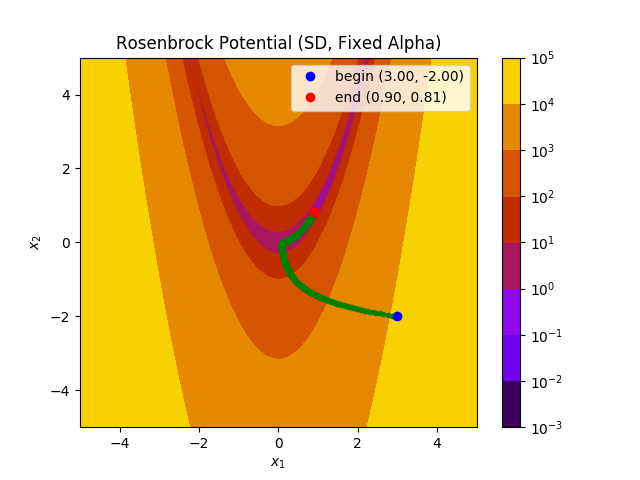
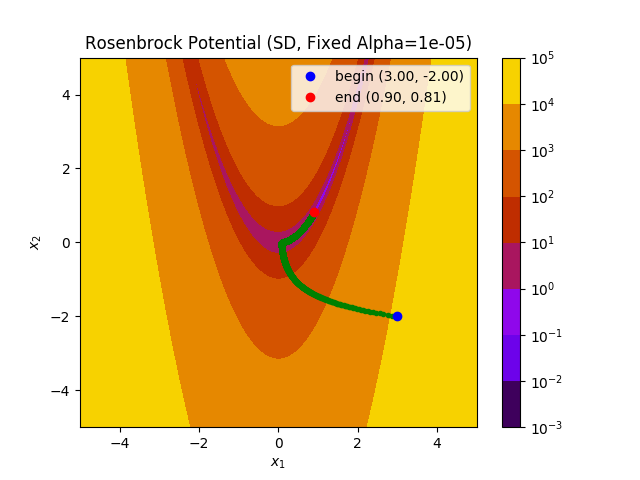
backup hw3 (not done yet)

Changed region(s): [[0.125, 0.0625, 0.75, 0.125]]

diff --git a/HW03/pb2/3_quad/sd.py b/HW03/pb2/3_quad/sd.py
@@ -5,8 +5,9 @@ matplotlib.use('TkAgg')
 import matplotlib.pyplot as plt
 
 A, B = 1, 100
-EPSILON = 1e-0
-ALPHA = 1e-5
+C = 0.1
+EPSILON = 1e-2
+ALPHA0 = 1.0
 
 def func(x1, x2, a=A, b=B):
     return (a-x1)**2 + b*(x2-x1**2)**2
@@ -21,6 +22,22 @@ def hess_func(x1, x2, a=A, b=B):
         [-4*b*x1, 2*b],
     ])
 
+def get_proper_alpha(x1k, x2k, pk):
+    alphak = ALPHA0
+    while True:
+        x1k1 = x1k + alphak * pk[0]
+        x2k1 = x2k + alphak * pk[1]
+        grad0 = grad_func(x1k, x2k)
+        phi0 = func(x1k, x2k)
+        phi1 = func(x1k1, x1k1)
+        phi_d0 = np.matmul(grad0.T, pk)
+        if phi1 <= phi0 + C * alphak * phi_d0:
+            break
+        numerator = -np.multiply(phi_d0, alphak**2)
+        denominator = 2.0*(phi1 - phi0 - alphak*phi_d0)
+        alphak = numerator/denominator
+    return alphak
+
 if __name__ == '__main__':
     x1, x2 = 3.0, -2.0
     r = func(x1, x2)
@@ -32,21 +49,16 @@ if __name__ == '__main__':
     rs = []
     x1s.append(x1)
     x2s.append(x2)
-
-    pk = -1.0*grad_func(x1,x2)
     while r > EPSILON:
-        x1k1 = x1s[k] + ALPHA * pk[0]
-        x2k1 = x2s[k] + ALPHA * pk[1]
-        
-        gradk = grad_func(x1s[k],x2s[k])
-        gradk1 = grad_func(x1k1,x2k1)
-        betak1 = np.matmul(gradk1.T, gradk1)/np.matmul(gradk.T, gradk)
-        pk = np.add(-1.0*gradk1, np.multiply(pk, betak1))
+        pk = -1.0*grad_func(x1s[k],x2s[k])
+        alphak = get_proper_alpha(x1s[k], x2s[k], pk)
+        x1k1 = x1s[k] + alphak * pk[0]
+        x2k1 = x2s[k] + alphak * pk[1]
 
         ps.append(pk)
         x1s.append(x1k1)
         x2s.append(x2k1)
-        k += 1
+        k +=1
         r = func(x1k1, x2k1)
         rs.append(r)
         # print(r)
@@ -63,11 +75,12 @@ if __name__ == '__main__':
     plt.legend()
     plt.xlabel('$x_1$')
     plt.ylabel('$x_2$')
-    plt.title("Rosenbrock Potential (CG, Fixed Alpha={})".format(ALPHA))
-    plt.savefig("cg.png")
+    plt.title("Rosenbrock Potential")
+    # plt.show()
+    plt.savefig("sd.png")
     # decay
     plt.clf()
     plt.plot(rs)
     plt.yscale("log")
     plt.title("Decay of objective function")
-    plt.savefig("cg_r.png")
+    plt.savefig("sd_r.png")

diff --git a/HW03/pb2/3_quad/cg.py b/HW03/pb2/3_quad/cg.py
@@ -5,8 +5,9 @@ matplotlib.use('TkAgg')
 import matplotlib.pyplot as plt
 
 A, B = 1, 100
-EPSILON = 1e-0
-ALPHA = 1e-5
+C = 0.1
+EPSILON = 1e-2
+ALPHA0 = 1.0
 
 def func(x1, x2, a=A, b=B):
     return (a-x1)**2 + b*(x2-x1**2)**2
@@ -20,6 +21,22 @@ def hess_func(x1, x2, a=A, b=B):
         [2+4*b*(3*x1**2-x2), -4*b*x1],
         [-4*b*x1, 2*b],
     ])
+
+def get_proper_alpha(x1k, x2k, pk):
+    alphak = ALPHA0
+    while True:
+        x1k1 = x1k + alphak * pk[0]
+        x2k1 = x2k + alphak * pk[1]
+        grad0 = grad_func(x1k, x2k)
+        phi0 = func(x1k, x2k)
+        phi1 = func(x1k1, x1k1)
+        phi_d0 = np.matmul(grad0.T, pk)
+        if phi1 <= phi0 + C * alphak * phi_d0:
+            break
+        numerator = -np.multiply(phi_d0, alphak**2)
+        denominator = 2.0*(phi1 - phi0 - alphak*phi_d0)
+        alphak = numerator/denominator
+    return alphak
 
 if __name__ == '__main__':
     x1, x2 = 3.0, -2.0
@@ -35,8 +52,9 @@ if __name__ == '__main__':
 
     pk = -1.0*grad_func(x1,x2)
     while r > EPSILON:
-        x1k1 = x1s[k] + ALPHA * pk[0]
-        x2k1 = x2s[k] + ALPHA * pk[1]
+        alphak = get_proper_alpha(x1s[k], x2s[k], pk)
+        x1k1 = x1s[k] + alphak * pk[0]
+        x2k1 = x2s[k] + alphak * pk[1]
         
         gradk = grad_func(x1s[k],x2s[k])
         gradk1 = grad_func(x1k1,x2k1)
@@ -49,7 +67,7 @@ if __name__ == '__main__':
         k += 1
         r = func(x1k1, x2k1)
         rs.append(r)
-        # print(r)
+        print(r)
     ## Visualize
     # contour
     x, y = np.meshgrid(np.linspace(-5, 5, 1000),
@@ -63,7 +81,8 @@ if __name__ == '__main__':
     plt.legend()
     plt.xlabel('$x_1$')
     plt.ylabel('$x_2$')
-    plt.title("Rosenbrock Potential (CG, Fixed Alpha={})".format(ALPHA))
+    plt.title("Rosenbrock Potential (Fixed Alpha)")
+    # plt.show()
     plt.savefig("cg.png")
     # decay
     plt.clf()

diff --git a/HW03/pb2/1_fixalpha/sd.py b/HW03/pb2/1_fixalpha/sd.py
@@ -29,6 +29,7 @@ if __name__ == '__main__':
     ps = []
     x1s = []
     x2s = []
+    rs = []
     x1s.append(x1)
     x2s.append(x2)
     while r > EPSILON:
@@ -41,6 +42,7 @@ if __name__ == '__main__':
         x2s.append(x2k1)
         k +=1
         r = func(x1k1, x2k1)
+        rs.append(r)
     ## Visualize
     # contour
     x, y = np.meshgrid(np.linspace(-5, 5, 1000),
@@ -56,3 +58,9 @@ if __name__ == '__main__':
     plt.ylabel('$x_2$')
     plt.title("Rosenbrock Potential (SD, Fixed Alpha={})".format(ALPHA))
     plt.savefig("sd.png")
+    # decay
+    plt.clf()
+    plt.plot(rs)
+    plt.yscale("log")
+    plt.title("Decay of objective function")
+    plt.savefig("sd_r.png")

diff --git a/HW03/pb2/2_backtracking/sd.py b/HW03/pb2/2_backtracking/sd.py
@@ -42,6 +42,7 @@ if __name__ == '__main__':
     ps = []
     x1s = []
     x2s = []
+    rs = []
     x1s.append(x1)
     x2s.append(x2)
     while r > EPSILON:
@@ -55,6 +56,7 @@ if __name__ == '__main__':
         x2s.append(x2k1)
         k +=1
         r = func(x1k1, x2k1)
+        rs.append(r)
     ## Visualize
     # contour
     x, y = np.meshgrid(np.linspace(-5, 5, 1000),
@@ -71,3 +73,9 @@ if __name__ == '__main__':
     plt.title("Rosenbrock Potential")
     # plt.show()
     plt.savefig("sd.png")
+    # decay
+    plt.clf()
+    plt.plot(rs)
+    plt.yscale("log")
+    plt.title("Decay of objective function")
+    plt.savefig("sd_r.png")

diff --git a/HW03/pb2/2_backtracking/cg.py b/HW03/pb2/2_backtracking/cg.py
@@ -42,6 +42,7 @@ if __name__ == '__main__':
     ps = []
     x1s = []
     x2s = []
+    rs = []
     x1s.append(x1)
     x2s.append(x2)
 
@@ -61,6 +62,7 @@ if __name__ == '__main__':
         x2s.append(x2k1)
         k += 1
         r = func(x1k1, x2k1)
+        rs.append(r)
         # print(r)
     ## Visualize
     # contour
@@ -78,3 +80,9 @@ if __name__ == '__main__':
     plt.title("Rosenbrock Potential (Fixed Alpha)")
     # plt.show()
     plt.savefig("cg.png")
+    # decay
+    plt.clf()
+    plt.plot(rs)
+    plt.yscale("log")
+    plt.title("Decay of objective function")
+    plt.savefig("cg_r.png")
